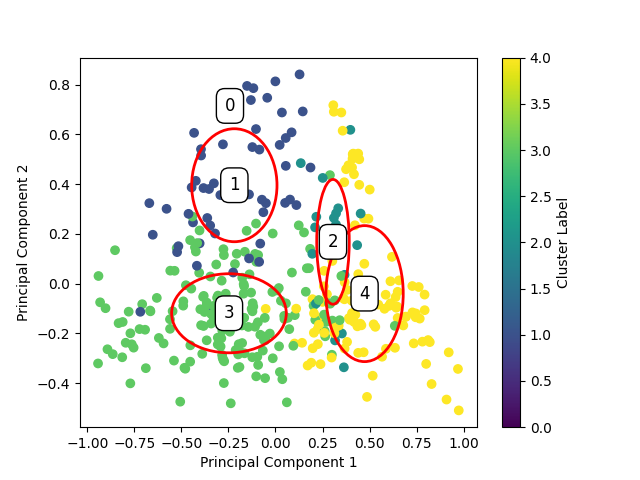
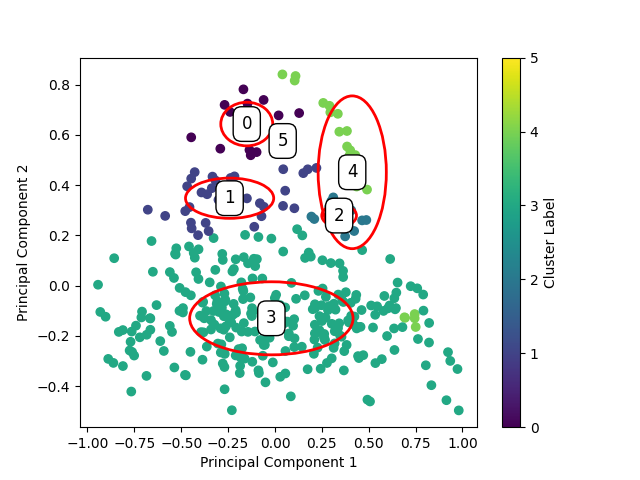
Small updates

diff --git a/src/main.py b/src/main.py
@@ -30,14 +30,14 @@ def main():
     # Set random seed for reproducibility
     np.random.seed(0)
     Config.SetConfig(sys.argv[1:])
-    dpmm = DPMM(alpha=2, iters=100)
+    dpmm = DPMM(alpha=3, iters=100)
     dpmm.initializeData()
 
     data = dpmm.preprocessData()
     getDataStats(data, dpmm.labels, isSplit="full")
     trainSplit = 0.8
     trainIdx, testIdx = train_test_split(
-        data.index, train_size=trainSplit, random_state=0
+        data.index, train_size=trainSplit, random_state=0, shuffle=False
     )
     trainData, testData = data.iloc[trainIdx], data.iloc[testIdx]
     trainLabels, testLabels = dpmm.labels[trainIdx.values], dpmm.labels[testIdx.values]
@@ -56,6 +56,7 @@ def main():
         assignments = fitDPM(dpmm, trainData, trainLabels, fullTrain)
 
     eval = Evaluation()
+    print("TRAINING...")
     eval.fullEvaluate(assignments, trainLabels, trainData.values, "train")
 
     # Test on unseen data
@@ -65,17 +66,19 @@ def main():
     else:
         testAssignments = predictDPM(dpmm, testData, testLabels, trainData, fullTest)
 
+    print("TESTING...")
     eval.fullEvaluate(testAssignments, testLabels, testData.values, "test")
 
     ######
-    completeData = pd.concat([trainData, testData])
-    completeLabels = np.concatenate((trainLabels, testLabels))
-    completeAssignments = fitDPM(
-        dpmm, completeData, completeLabels, pd.concat([fullTrain, fullTest])
-    )
-    eval.fullEvaluate(
-        completeAssignments, completeLabels, completeData.values, "complete"
-    )
+    # dpmm.alpha = 1
+    # completeData = pd.concat([trainData, testData])
+    # completeLabels = np.concatenate((trainLabels, testLabels))
+    # completeAssignments = fitDPM(
+    #     dpmm, completeData, completeLabels, pd.concat([fullTrain, fullTest])
+    # )
+    # eval.fullEvaluate(
+    #     completeAssignments, completeLabels, completeData.values, "complete"
+    # )
 
 
 if __name__ == "__main__":

diff --git a/src/DPMM.py b/src/DPMM.py
@@ -99,7 +99,7 @@ class DPMM:
             self.idx = 0
             self.clusters = {0: [0]}
         for _ in range(self.iters):
-            prevNumClusters = len(self.clusters)
+            prevAssignments = np.copy(self.assignments)
             for n in range(self.N):
                 currP = data.iloc[n].values
                 currC = self.assignments[n]
@@ -115,7 +115,8 @@ class DPMM:
                 print(f"Number of Clusters: {len(self.clusters)}")
                 print(f"Cluster assignments: {self.assignments}")
 
-            if len(self.clusters) == 7 and len(self.clusters) == prevNumClusters:
+            # Change to no changed clusters
+            if np.sum(self.assignments != prevAssignments) == 0:
                 break
             self.idx = 0
         return self.assignments
@@ -154,9 +155,9 @@ class DPMM:
 
             posteriorProbs.append(prior * likelihood)
 
-        if len(self.clusters) < 20:
+        if len(self.clusters) < 50:
             # Add the probability of forming a new cluster
-            sigma = wishart.rvs(df=self.nu, scale=self.psi)
+            sigma = invwishart.rvs(df=self.nu, scale=self.psi)
             newMu = np.random.multivariate_normal(self.mu, sigma * self._lambda)
             newLikelihood = multivariate_normal.pdf(sample, mean=newMu, cov=sigma)
             newClusterPrior = self.alpha / (totalP + self.alpha)
@@ -170,7 +171,7 @@ class DPMM:
         posteriorProbs /= posteriorProbs.sum()
 
         # Sample new cluster assignment
-        newCluster = np.random.choice(len(posteriorProbs), p=posteriorProbs)
+        newCluster = np.argmax(posteriorProbs)
         if train:
             self.addPoint(self.idx, newCluster, new_cluster_possible)
             self.idx += 1

diff --git a/src/evaluation.py b/src/evaluation.py
@@ -16,6 +16,7 @@ class Evaluation:
         results = {}
         for method in self.methods:
             results[method] = self.evaluate(predLabels, trueLabels, method, dataValues)
+        results["Hierarchical"] = self.hierarchicalEvaluate(predLabels, trueLabels)
         return results
 
     def evaluate(self, predLabels, trueLabels=None, method="ARI", dataValues=None):
@@ -54,8 +55,13 @@ class Evaluation:
             print("Invalid evaluation method")
 
     # This should check the number that are classified as lower
-    def hierarchicalEvaluate(self):
-        pass
+    def hierarchicalEvaluate(self, assignments, labels):
+        assert len(assignments) == len(labels)
+        conditions = []
+        for a, l in zip(assignments, labels):
+            conditions.append(a <= l)
+        lower = np.sum(conditions)
+        return lower / len(assignments)
 
     def fullEvaluate(self, assignments, labels, data, path=None):
         tieredClusters = mapRunToTier(assignments)
@@ -65,11 +71,5 @@ class Evaluation:
 
         results = self.evaluateAll(assignments, labels, data)
         tieredResults = self.evaluateAll(tieredClusters, tieredLabels, data)
-        with open(
-            f"res/{'sk/' if Config.USE_SKLEARN else 'dpm/'}results{Config.OUTPUT_SUFFIX}.txt",
-            "w+",
-        ) as f:
-            print(results, file=f)
-            print(tieredResults, file=f)
-            print(results)
-            print(tieredResults)
+        print(results)
+        print(tieredResults)

diff --git a/src/runModeling.py b/src/runModeling.py
@@ -17,15 +17,13 @@ def getSklDPMM(alpha):
 
 
 def runSkLearn(data, labels, fullData):
-    skDPMM = getSklDPMM(100)
+    skDPMM = getSklDPMM(300)
     skDPMM.fit(data)
     assignments = skDPMM.predict(data)
     assignments = transformLabels(assignments)
     assignments = HungarianMatch(assignments, labels)
+    print(f"{len(set(assignments))} clusters found")
     plotClusters2d(data.values, assignments)
-    plotParallelCoordinates(
-        pd.DataFrame(fullData, columns=fullData.columns), assignments
-    )
 
     return assignments
 

diff --git a/src/config.py b/src/config.py
@@ -2,7 +2,7 @@ class Config:
     DEBUG = False
     EVALUATE = False
     USE_SKLEARN = False
-    OUTPUT_SUFFIX = "_2"
+    OUTPUT_SUFFIX = ""
     SAVE_FIGS = False
 
     @staticmethod
